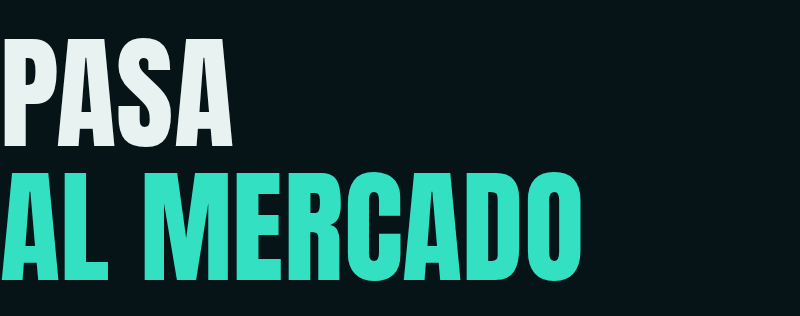
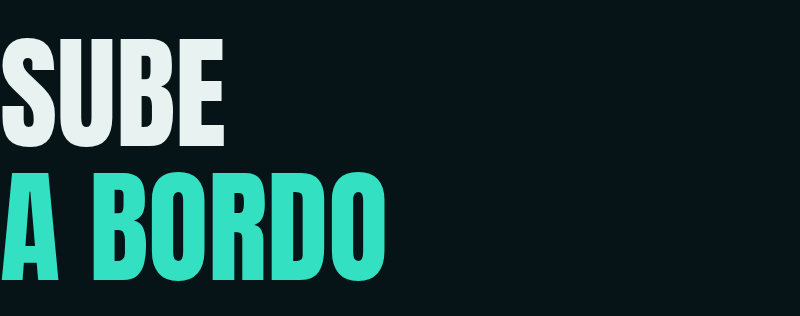
Renombrar El Mercado a la Tripulación
El directorio de asistentes pasa a llamarse «La Tripulación» y vive en
/tripulacion. /mercado redirige ahí, porque las invitaciones ya enviadas
llevan a esa dirección. Cambian la web, los correos, la tarjeta y el
título de la invitación («Sube a bordo»). En el código, las tablas y los
scripts sigue llamándose «mercado».

Changed region(s): [[0.0625, 0.5411, 0.75, 0.9114], [0.0, 0.1139, 0.3125, 0.4842]]

diff --git a/supabase/emails/invite.html b/supabase/emails/invite.html
@@ -1,4 +1,4 @@
-<!-- La manda scripts/mercado.mjs con Gmail, no Supabase. Asunto: "Te invitamos a pasar al Mercado de Atarazana" -->
+<!-- La manda scripts/mercado.mjs con Gmail, no Supabase. Asunto: "Te invitamos a la Tripulación de Atarazana" -->
 <!doctype html>
 <html lang="es">
 <head>
@@ -6,7 +6,7 @@
 <meta name="viewport" content="width=device-width, initial-scale=1">
 <meta name="color-scheme" content="dark">
 <meta name="supported-color-schemes" content="dark">
-<title>Pasa al Mercado</title>
+<title>Sube a bordo</title>
 </head>
 <body style="margin:0;padding:0;background:#061418" bgcolor="#061418">
 <div style="display:none;max-height:0;overflow:hidden;color:#061418">Te invitamos a pasar. Rellena tu perfil y verás a la gente con la que coincidiste.</div>
@@ -14,24 +14,24 @@
 <tr><td align="center" style="padding:24px 12px">
   <table role="presentation" width="100%" cellpadding="0" cellspacing="0" border="0" bgcolor="#061418" style="max-width:560px;background:#061418;border:1px solid #1e3a40">
     <tr><td bgcolor="#0a1d22" style="background:#0a1d22;border-bottom:1px solid #1e3a40;font-size:0;line-height:0">
-      <img src="cid:invitacion" width="560" alt="Invitación a El Mercado de Atarazana Founder House para {{ .Email }}. Acceso privado, en Málaga." style="display:block;border:0;width:100%;height:auto;color:#e8f3f1;font-family:Inter,Helvetica,Arial,sans-serif;font-size:14px;line-height:1.5">
+      <img src="cid:invitacion" width="560" alt="Invitación a La Tripulación de Atarazana Founder House para {{ .Email }}. Acceso privado, en Málaga." style="display:block;border:0;width:100%;height:auto;color:#e8f3f1;font-family:Inter,Helvetica,Arial,sans-serif;font-size:14px;line-height:1.5">
     </td></tr>
     <tr><td style="padding:36px 28px 0">
-      <img src="https://atarazana.house/assets/email/titulo-invitacion.png" width="400" alt="Pasa al Mercado" style="display:block;border:0;width:100%;max-width:400px;height:auto;color:#e8f3f1;font-family:Impact,'Arial Narrow',Arial,sans-serif;font-size:44px;line-height:1.05;text-transform:uppercase">
+      <img src="https://atarazana.house/assets/email/titulo-invitacion.png" width="400" alt="Sube a bordo" style="display:block;border:0;width:100%;max-width:400px;height:auto;color:#e8f3f1;font-family:Impact,'Arial Narrow',Arial,sans-serif;font-size:44px;line-height:1.05;text-transform:uppercase">
     </td></tr>
     <tr><td style="padding:24px 28px 0;color:#e8f3f1;font-family:Inter,Helvetica,Arial,sans-serif;font-size:17px;line-height:1.55">
       Viniste a una marea, así que te invitamos a pasar. Rellena tu perfil y verás a la gente con la que coincidiste.
     </td></tr>
     <tr><td style="padding:28px 28px 20px">
       <table role="presentation" width="100%" cellpadding="0" cellspacing="0" border="0"><tr>
-        <td bgcolor="#34e0c2" style="background:#34e0c2"><a href="{{ .ConfirmationURL }}" style="display:block;padding:18px 20px;color:#061418;font-family:'IBM Plex Mono',Menlo,Consolas,monospace;font-size:14px;font-weight:700;letter-spacing:.06em;text-transform:uppercase;text-decoration:none">Pasar al Mercado &rarr;</a></td>
+        <td bgcolor="#34e0c2" style="background:#34e0c2"><a href="{{ .ConfirmationURL }}" style="display:block;padding:18px 20px;color:#061418;font-family:'IBM Plex Mono',Menlo,Consolas,monospace;font-size:14px;font-weight:700;letter-spacing:.06em;text-transform:uppercase;text-decoration:none">Entrar en la Tripulación &rarr;</a></td>
       </tr></table>
     </td></tr>
     <tr><td style="padding:0 28px 32px;color:#e8f3f1;font-family:Inter,Helvetica,Arial,sans-serif;font-size:15px;line-height:1.55">
-      Este botón es personal y solo sirve una vez. Si ya lo usaste o han pasado 30 días, pide otro enlace en <a href="https://atarazana.house/mercado" style="color:#34e0c2">atarazana.house/mercado</a>.
+      Este botón es personal y solo sirve una vez. Si ya lo usaste o han pasado 30 días, pide otro enlace en <a href="https://atarazana.house/tripulacion" style="color:#34e0c2">atarazana.house/tripulacion</a>.
     </td></tr>
     <tr><td style="padding:20px 28px;border-top:1px solid #1e3a40;color:#8aa6aa;font-family:Inter,Helvetica,Arial,sans-serif;font-size:14px;line-height:1.55">
-      You came to a marea, so come on in. Fill in your profile to see the people you met there. This button is personal and works once. If you already used it or 30 days have passed, ask for a new link at <a href="https://atarazana.house/mercado" style="color:#34e0c2">atarazana.house/mercado</a>.
+      You came to a marea, so come on in. Fill in your profile to see the people you met there. This button is personal and works once. If you already used it or 30 days have passed, ask for a new link at <a href="https://atarazana.house/tripulacion" style="color:#34e0c2">atarazana.house/tripulacion</a>.
     </td></tr>
     <tr><td style="padding:20px 28px;border-top:1px solid #1e3a40;color:#8aa6aa;font-family:'IBM Plex Mono',Menlo,Consolas,monospace;font-size:12px;line-height:1.7">
       Hasta la próxima marea · Until the next marea

diff --git a/supabase/emails/magic-link.html b/supabase/emails/magic-link.html
@@ -1,4 +1,4 @@
-<!-- Supabase → Authentication → Emails → Templates → Magic Link. Asunto: "Tu enlace para entrar en El Mercado" -->
+<!-- Supabase → Authentication → Emails → Templates → Magic Link. Asunto: "Tu enlace para entrar en la Tripulación" -->
 <!doctype html>
 <html lang="es">
 <head>
@@ -20,15 +20,15 @@
       <img src="https://atarazana.house/assets/email/titulo-enlace.png" width="400" alt="Tu enlace para entrar" style="display:block;border:0;width:100%;max-width:400px;height:auto;color:#e8f3f1;font-family:Impact,'Arial Narrow',Arial,sans-serif;font-size:44px;line-height:1.05;text-transform:uppercase">
     </td></tr>
     <tr><td style="padding:24px 28px 0;color:#e8f3f1;font-family:Inter,Helvetica,Arial,sans-serif;font-size:17px;line-height:1.55">
-      Caduca en una hora y solo sirve una vez. Si te caduca, pide otro en <a href="https://atarazana.house/mercado" style="color:#34e0c2">atarazana.house/mercado</a>. Si no lo has pedido, ignora este correo.
+      Caduca en una hora y solo sirve una vez. Si te caduca, pide otro en <a href="https://atarazana.house/tripulacion" style="color:#34e0c2">atarazana.house/tripulacion</a>. Si no lo has pedido, ignora este correo.
     </td></tr>
     <tr><td style="padding:28px 28px 32px">
       <table role="presentation" width="100%" cellpadding="0" cellspacing="0" border="0"><tr>
-        <td bgcolor="#34e0c2" style="background:#34e0c2"><a href="{{ .ConfirmationURL }}" style="display:block;padding:18px 20px;color:#061418;font-family:'IBM Plex Mono',Menlo,Consolas,monospace;font-size:14px;font-weight:700;letter-spacing:.06em;text-transform:uppercase;text-decoration:none">Entrar en El Mercado &rarr;</a></td>
+        <td bgcolor="#34e0c2" style="background:#34e0c2"><a href="{{ .ConfirmationURL }}" style="display:block;padding:18px 20px;color:#061418;font-family:'IBM Plex Mono',Menlo,Consolas,monospace;font-size:14px;font-weight:700;letter-spacing:.06em;text-transform:uppercase;text-decoration:none">Entrar en la Tripulación &rarr;</a></td>
       </tr></table>
     </td></tr>
     <tr><td style="padding:20px 28px;border-top:1px solid #1e3a40;color:#8aa6aa;font-family:Inter,Helvetica,Arial,sans-serif;font-size:14px;line-height:1.55">
-      Your link to get in. It expires in an hour and works once. If it does, ask for a new one at <a href="https://atarazana.house/mercado" style="color:#34e0c2">atarazana.house/mercado</a>. If you did not ask for it, ignore this email.
+      Your link to get in. It expires in an hour and works once. If it does, ask for a new one at <a href="https://atarazana.house/tripulacion" style="color:#34e0c2">atarazana.house/tripulacion</a>. If you did not ask for it, ignore this email.
     </td></tr>
     <tr><td bgcolor="#0a1d22" style="background:#0a1d22;border-top:1px solid #1e3a40;font-size:0;line-height:0">
       <img src="https://atarazana.house/assets/email/laceria.png" width="560" alt="" style="display:block;border:0;width:100%;height:auto">

diff --git a/src/data/mercado.ts b/src/data/mercado.ts
@@ -1,17 +1,18 @@
 import type { Locale } from './pages';
 
-// El Mercado: la zona para volver a encontrar a la gente de tus mareas.
-// El nombre vive aquí. La ruta (/mercado) es el nombre de la carpeta en src/pages.
-export const mercadoName = 'El Mercado';
+// La Tripulación: la zona para volver a encontrar a la gente de tus mareas.
+// El nombre vive aquí. La ruta (/tripulacion) es el nombre de la carpeta en src/pages.
+// En el código, las tablas y los scripts se sigue llamando «mercado».
+export const mercadoName = 'La Tripulación';
 
 export function mercadoUrl(lang: Locale, view: 'index' | 'perfil' | 'persona' = 'index') {
-  const base = lang === 'en' ? '/en/mercado' : '/mercado';
+  const base = lang === 'en' ? '/en/tripulacion' : '/tripulacion';
   return view === 'index' ? base : `${base}/${view}`;
 }
 
 export const mercadoCopy = {
   es: {
-    off: `${mercadoName} todavía no está activo. Vuelve pronto.`,
+    off: `${mercadoName} todavía no está activa. Vuelve pronto.`,
     loading: 'Cargando…',
     // entrar
     loginKicker: 'Solo para quien ha venido a una marea',
@@ -59,7 +60,7 @@ export const mercadoCopy = {
     needName: 'Falta tu nombre.',
     needLink: 'Añade al menos un enlace para que te puedan contactar.',
     badLink: 'Este enlace no parece una dirección web.',
-    backToMercado: 'Volver al Mercado',
+    backToMercado: 'Volver a la Tripulación',
     photo: 'Foto',
     photoAdd: 'Subir foto',
     photoChange: 'Cambiar foto',
@@ -136,7 +137,7 @@ export const mercadoCopy = {
     needName: 'Your name is missing.',
     needLink: 'Add at least one link so people can reach you.',
     badLink: 'This link does not look like a web address.',
-    backToMercado: 'Back to El Mercado',
+    backToMercado: 'Back to La Tripulación',
     photo: 'Photo',
     photoAdd: 'Upload photo',
     photoChange: 'Change photo',

diff --git a/supabase/functions/mercado-invite/index.ts b/supabase/functions/mercado-invite/index.ts
@@ -1,6 +1,6 @@
-// Canjea el botón de la invitación de El Mercado. Supabase solo tiene una caducidad para todos sus enlaces (1 hora), así que
+// Canjea el botón de la invitación de la Tripulación. Supabase solo tiene una caducidad para todos sus enlaces (1 hora), así que
 // la invitación guarda su propio token (30 días, un solo uso) y el enlace de entrar se crea al canjearlo.
-// Lo llama la página /mercado con un POST desde el navegador: así un filtro de correo que solo abre el enlace no lo gasta.
+// Lo llama la página /tripulacion con un POST desde el navegador: así un filtro de correo que solo abre el enlace no lo gasta.
 import { createClient } from 'npm:@supabase/supabase-js@2';
 
 const site = Deno.env.get('MERCADO_SITE_URL') ?? 'https://atarazana.house';
@@ -29,6 +29,6 @@ Deno.serve(async (req) => {
   if (!invite) return reply({ url: null, email: null });
   if (new Date(invite.expires_at) < new Date()) return reply({ url: null, email: invite.email });
 
-  const { data, error } = await db.auth.admin.generateLink({ type: 'magiclink', email: invite.email, options: { redirectTo: `${site}/mercado` } });
+  const { data, error } = await db.auth.admin.generateLink({ type: 'magiclink', email: invite.email, options: { redirectTo: `${site}/tripulacion` } });
   return error ? reply({ url: null, email: invite.email }) : reply({ url: data.properties.action_link, email: invite.email });
 });

diff --git a/src/data/pages.ts b/src/data/pages.ts
@@ -31,7 +31,7 @@ export const pages = {
       "type": "website"
     },
     "mercado": {
-      "title": "El Mercado · Atarazana Founder House",
+      "title": "La Tripulación · Atarazana Founder House",
       "description": "Vuelve a encontrar a la gente con la que coincidiste en una marea de Atarazana Founder House.",
       "socialDescription": "Vuelve a encontrar a la gente con la que coincidiste en una marea.",
       "type": "website"
@@ -69,7 +69,7 @@ export const pages = {
       "type": "website"
     },
     "mercado": {
-      "title": "El Mercado · Atarazana Founder House",
+      "title": "La Tripulación · Atarazana Founder House",
       "description": "Find the people you met at an Atarazana Founder House marea again.",
       "socialDescription": "Find the people you met at a marea again.",
       "type": "website"
@@ -81,8 +81,8 @@ export type Page = keyof typeof pages.es;
 
 // Rutas que cambian de nombre según el idioma; el resto usa la clave de la página.
 const slugs: Record<Locale, Partial<Record<Page, string>>> = {
-  es: { faq: 'preguntas' },
-  en: {},
+  es: { faq: 'preguntas', mercado: 'tripulacion' },
+  en: { mercado: 'tripulacion' },
 };
 
 export function pageUrl(lang: Locale, page: Page) {

diff --git a/src/styles/global.css b/src/styles/global.css
@@ -918,7 +918,7 @@ main { counter-reset:chapter; }
 .hero-pass { border-color:color-mix(in srgb, var(--signal) calc(var(--bass, 0) * 100%), var(--structure)); }
 .sound-toggle.is-live .sound-bars i { animation:none; transition:height .06s linear; }
 
-/* ---------- El Mercado: directorio de la gente de tus mareas ---------- */
+/* ---------- La Tripulación: directorio de la gente de tus mareas ---------- */
 .mercado .wrap { padding-top:72px; padding-bottom:96px; min-height:60vh; }
 .mercado h1 { font-size:clamp(56px, 10vw, 140px); line-height:1.02; margin:0 0 28px; }
 .mercado .lead { font:700 clamp(18px, 2vw, 24px)/1.35 var(--font-body); letter-spacing:-0.02em; max-width:40ch; color:var(--white); }

diff --git a/src/lib/supabase.ts b/src/lib/supabase.ts
@@ -9,8 +9,8 @@ const isLocal = /^http:\/\/(127\.0\.0\.1|localhost)(:|\/|$)/.test(url ?? '');
 const allowed = import.meta.env.DEV === isLocal;
 if (url && !allowed) {
   console.warn(import.meta.env.DEV
-    ? `El Mercado: en local solo se usa el Supabase local, no ${url}. Revisa .env.development.local.`
-    : 'El Mercado: esta build apunta al Supabase local; no se conecta.');
+    ? `La Tripulación: en local solo se usa el Supabase local, no ${url}. Revisa .env.development.local.`
+    : 'La Tripulación: esta build apunta al Supabase local; no se conecta.');
 }
 
 let client: SupabaseClient | null = null;

diff --git a/src/scripts/mercado.ts b/src/scripts/mercado.ts
@@ -1,4 +1,4 @@
-// El Mercado en el navegador: entrar con enlace mágico, el directorio, tu perfil y la ficha de cada persona.
+// La Tripulación en el navegador: entrar con enlace mágico, el directorio, tu perfil y la ficha de cada persona.
 // Todo el texto que viene de la base de datos se pinta con textContent: nunca como HTML.
 import type { SupabaseClient } from '@supabase/supabase-js';
 import { supabase, PHOTO_BUCKET } from '../lib/supabase';

diff --git a/AGENTS.md b/AGENTS.md
@@ -52,7 +52,7 @@ Tenemos un vocabulario propio, sacado del astillero y de Málaga, para no sonar 
 | Manifiesto, capítulo 1 | **"Aquí ya se construía"** | La historia propia (astillero, siglo XIV) en lugar de la idea de "poner Málaga en el mapa" |
 | Manifiesto, "Por qué este nombre" | **dār aṣ-ṣināʿa** y **arsenal** | La etimología: "casa de la industria". *Arsenal* viene de la misma palabra |
 | Metadatos en mono | **s. XIV** | Junto a las coordenadas: footer y pie de la Puerta |
-| Directorio de asistentes (`/mercado`) | **El Mercado** (provisional, 31 de octubre de 2026) | El Mercado está detrás de la Puerta: ves caras conocidas, paras y hablas. El nombre está en `mercadoName` (`src/data/mercado.ts`); si cambia, se cambia ahí y se renombra la carpeta `src/pages/mercado` |
+| Directorio de asistentes (`/tripulacion`) | **La Tripulación** (3 de noviembre de 2026; antes, El Mercado) | La gente que ha subido al mismo barco. Se entiende mejor que "El Mercado". En inglés también se dice "La Tripulación". En mitad de frase, "la Tripulación" ("Volver a la Tripulación"). El nombre está en `mercadoName` (`src/data/mercado.ts`); si cambia, se cambia ahí, se renombran las carpetas `src/pages/tripulacion` y `src/pages/en/tripulacion`, se añade la redirección en `vercel.json` y se regenera `titulo-invitacion.png`. En el código, las tablas y los scripts sigue siendo "mercado" |
 | Visual | **Lacería** y **la Puerta** | Ver "Elementos secundarios" en la sección 3 |
 
 **Se mantiene como estaba:**
@@ -89,7 +89,7 @@ Tenemos un vocabulario propio, sacado del astillero y de Málaga, para no sonar 
 | Comunidad recurrente | **la cuadrilla** | Los equipos de astillero; en Andalucía la palabra sigue viva |
 | Contador de asistencias | **Llevas 3 mareas** | Cuántas veces has venido, sin rankings ni puntos |
 
-Cuadrilla y Mercado no compiten: la cuadrilla es la gente y el Mercado (ya en uso, ver arriba) es el sitio donde te la encuentras.
+La cuadrilla queda en reserva: la Tripulación (ya en uso, ver arriba) ocupa ese sitio.
 
 ### Lo que evitamos en el texto
 
@@ -228,7 +228,7 @@ Discreto y mecánico: flechas que se desplazan, subrayados que aparecen, cambios
 
 - **Astro 7**, sitio estático desplegado en Vercel (`vercel.json`). Node ≥ 22.12.
 - Comandos: `npm run dev`, `npm run build`, `npm run check`, `npm run check:functions` (la función de Supabase va aparte porque es Deno).
-- Tests de El Mercado: `npm test`, siempre contra Supabase local. Preparación y alcance en `tests/README.md`. `npm run verify` comprueba tipos, tests y build. Añade casos para fallos reales o reglas críticas; evita tests que solo repitan la implementación.
+- Tests de la Tripulación: `npm test`, siempre contra Supabase local. Preparación y alcance en `tests/README.md`. `npm run verify` comprueba tipos, tests y build. Añade casos para fallos reales o reglas críticas; evita tests que solo repitan la implementación.
 - **Antes de hacer commit:** el hook `.githooks/pre-commit` ejecuta `npm run verify` y bloquea el commit si falla cualquier comprobación. **El hook debe estar instalado en cada clon:** `npm install` / `npm ci` lo instalan mediante `prepare`; también se instala con `npm run hooks:install`. Comprueba que `git config --get core.hooksPath` devuelve `.githooks`. Supabase local y Chromium deben estar preparados según `tests/README.md`. Corrige los fallos antes de repetir el commit; no omitas el hook con `--no-verify` ni desactivándolo. GitHub Actions ejecuta la misma verificación en cada push y PR (`.github/workflows/verify.yml`).
 - Páginas en `src/pages/` (castellano en la raíz, inglés en `src/pages/en/`). **Cualquier cambio de copy se hace en los dos idiomas.**
 - Metadatos SEO y sociales por página e idioma en `src/data/pages.ts`. Allí también está `pageUrl` y el mapa de rutas que cambian según el idioma (la página `faq` es `/preguntas` en castellano y `/en/faq` en inglés).
@@ -236,7 +236,7 @@ Discreto y mecánico: flechas que se desplazan, subrayados que aparecen, cambios
 - **Menú** (`Header.astro`): Mareas · Manifiesto · Partners · Preguntas · Luma (perfil `luma.com/user/atarazana`) · EN/ES · botón "Pide paso". Se mantiene corto: antes de añadir algo, mira si puede ir en el footer.
 - **Enlaces a Luma:** "Pide paso", "Invitaciones abiertas" y el botón de cada marea próxima llevan al evento de esa marea (`luma` en `mareas.ts`). El perfil general solo va en el menú y en el catálogo vacío.
 - **Mareas** (`src/data/mareas.ts`): cada encuentro es una entrada (número, fecha, plazas, charlas, partners). De ahí salen la invitación del hero, el bloque de la próxima marea, el CTA final, el catálogo `/mareas` (`/en/mareas`) y la página de cada marea (`/mareas/001`). Para crear una marea nueva, se añade una entrada al principio del array. Con `draft: true` solo se ve en `npm run dev`; mientras no haya ninguna publicada, el catálogo no se genera ni sale en el menú ni en el footer. Si la marea ya ha pasado, se marca como pasada en el siguiente build: en ese momento se puede añadir `venue`, `doors` y una crónica en `body`. Cada ponente con cartel necesita también su retrato en `public/assets/speakers/thumbs/` (400×500, blanco y negro, recortado del cartel sin texto): sale en la fila del catálogo y en la banda de ponentes.
-- **El Mercado** (`/mercado`, `/en/mercado`): directorio privado de asistentes con login por enlace mágico, en Supabase. Solo pueden tener cuenta los correos de la lista de asistentes o de admins. Para ver a los demás hay que tener el perfil propio relleno y visible. Cada persona ve los perfiles de quien coincidió con ella en alguna marea, y el suyo el primero, marcado con «Tú»; quien no ha rellenado el suyo sale "de incógnita". Los admins lo ven todo y descargan CSV. **`atarazanafh@gmail.com` tiene que ser admin siempre**: lo pone `schema.sql` y no se quita. La invitación es de un clic: un token de un solo uso (30 días) que `/mercado` canjea en la función `supabase/functions/mercado-invite`; el enlace que se pide desde la web dura una hora. Las reglas de acceso viven en la base de datos (`supabase/schema.sql`), nunca solo en el navegador. **Producción se cuida:** en local todo va contra el Supabase local; los scripts solo tocan producción con `--prod` y confirmación (ver `supabase/README.md`). Cliente en `src/scripts/mercado.ts`, textos en `src/data/mercado.ts`, carga de asistentes desde el CSV de Luma con `scripts/mercado.mjs`. Puesta en marcha y uso en `supabase/README.md`. Las fotos van en color. El texto de la base de datos se pinta siempre con `textContent`, nunca como HTML.
+- **La Tripulación** (`/tripulacion`, `/en/tripulacion`; `/mercado` redirige ahí desde `vercel.json`, porque las primeras invitaciones llevan a `/mercado`): directorio privado de asistentes con login por enlace mágico, en Supabase. Solo pueden tener cuenta los correos de la lista de asistentes o de admins. Para ver a los demás hay que tener el perfil propio relleno y visible. Cada persona ve los perfiles de quien coincidió con ella en alguna marea, y el suyo el primero, marcado con «Tú»; quien no ha rellenado el suyo sale "de incógnita". Los admins lo ven todo y descargan CSV. **`atarazanafh@gmail.com` tiene que ser admin siempre**: lo pone `schema.sql` y no se quita. La invitación es de un clic: un token de un solo uso (30 días) que `/tripulacion` canjea en la función `supabase/functions/mercado-invite`; el enlace que se pide desde la web dura una hora. Las reglas de acceso viven en la base de datos (`supabase/schema.sql`), nunca solo en el navegador. **Producción se cuida:** en local todo va contra el Supabase local; los scripts solo tocan producción con `--prod` y confirmación (ver `supabase/README.md`). Cliente en `src/scripts/mercado.ts`, textos en `src/data/mercado.ts`, carga de asistentes desde el CSV de Luma con `scripts/mercado.mjs`. Puesta en marcha y uso en `supabase/README.md`. Las fotos van en color. El texto de la base de datos se pinta siempre con `textContent`, nunca como HTML.
 - **Acceso de agentes a producción** (Supabase y Vercel). Los valores están en `.env.prod`, que no se sube al repo; aquí solo va qué hay y cómo renovarlo:
   - Proyecto de Supabase: `qdjgqywjqwulzblafnof` (`https://qdjgqywjqwulzblafnof.supabase.co`).
   - `.env.prod` contiene `SUPABASE_URL`, `SUPABASE_SERVICE_ROLE_KEY` (la secret key, `sb_secret_…`), `SITE_URL`, `PUBLIC_SUPABASE_ANON_KEY` (la publishable, `sb_publishable_…`, no la usa el script), `SUPABASE_ACCESS_TOKEN` (`sbp_…`, token personal con caducidad) `GMAIL_APP_PASSWORD` (con ella `scripts/mercado.mjs` manda las invitaciones) y `SUPABASE_DB_URL` (conexión directa, para las copias de seguridad). Se leen sin imprimirlos, y nunca se piden ni se pegan en el chat.

diff --git a/supabase/README.md b/supabase/README.md
@@ -1,4 +1,6 @@
-# El Mercado · puesta en marcha
+# La Tripulación · puesta en marcha
+
+En el código, las tablas y los scripts se llama «mercado», su nombre anterior.
 
 Directorio privado de la gente que ha venido a las mareas. La web sigue siendo estática;
 el login (enlace mágico), los datos y las fotos van en [Supabase](https://supabase.com) (plan gratis).
@@ -10,15 +12,15 @@ el login (enlace mágico), los datos y las fotos van en [Supabase](https://supab
 3. **Authentication → Sign In / Providers**
    - Email: activado. **"Allow new users to sign up": desactivado** (solo entra quien invitamos).
 4. **Authentication → URL Configuration**
-   - Site URL: `https://atarazana.house/mercado`
-   - Redirect URLs: `https://atarazana.house/mercado`, `https://atarazana.house/en/mercado`
+   - Site URL: `https://atarazana.house/tripulacion`
+   - Redirect URLs: `https://atarazana.house/tripulacion`, `https://atarazana.house/en/tripulacion` (y las antiguas `/mercado` y `/en/mercado`, que redirigen ahí)
 5. **Correo con Gmail (obligatorio).** El correo de serie de Supabase solo manda a miembros del equipo y unos pocos por hora. Usamos la cuenta `atarazanafh@gmail.com` como servidor de correo (unos 500 correos al día, gratis).
    - En la cuenta de Google: activa la **verificación en dos pasos** (Seguridad) y crea una **contraseña de aplicación** en [myaccount.google.com/apppasswords](https://myaccount.google.com/apppasswords) con el nombre "Supabase". Son 16 letras: guárdalas, solo se ven una vez.
    - Supabase → **Authentication → Emails → SMTP Settings** → activar *Enable custom SMTP*:
      host `smtp.gmail.com`, puerto `465`, usuario `atarazanafh@gmail.com`, contraseña = la contraseña de aplicación (sin espacios), remitente `atarazanafh@gmail.com`, nombre `Atarazana Founder House`.
    - Supabase → **Authentication → Rate Limits**: deja "emails per hour" en 100. Cuenta los enlaces que pide la gente para entrar; las invitaciones las manda el script directamente con Gmail. No lo subas mucho más: Gmail corta hacia los 500 al día, y ese tope incluye las dos cosas.
    - Si algún día se quiere remitente `@atarazana.house`, se cambian estos campos por los de [Resend](https://resend.com) (host `smtp.resend.com`, usuario `resend`, contraseña = API key, tras verificar el dominio en DNS). No hay que tocar código.
-6. **Plantillas**: Authentication → Emails → Templates. Copia `emails/magic-link.html` en *Magic Link* (el asunto va en el comentario del archivo). `emails/invite.html` no se pega en Supabase: la manda `scripts/mercado.mjs` con Gmail, usando `GMAIL_APP_PASSWORD` de `.env.prod`. Así la cuenta nace confirmada y la invitación dura 30 días y sirve una vez: su botón lleva a `/mercado`, que la canjea en la función `mercado-invite` y deja a la persona dentro de un clic. Deja de valer al usarla o al rellenar el perfil. Si ya no vale, se pide un enlace en `/mercado`, y ese dura una hora (Authentication → Email OTP Expiration: 3600). Para publicar la función: `SUPABASE_ACCESS_TOKEN=… npx supabase functions deploy mercado-invite --project-ref qdjgqywjqwulzblafnof --no-verify-jwt --use-api`. Las imágenes de los correos están en `public/assets/email/`, así que tienen que estar publicadas antes de enviarlos. La tarjeta de la invitación se pinta para cada persona, con su correo (`scripts/mercado-card.mjs`). Necesita Chromium: `npx playwright install chromium-headless-shell`, una vez. Si cambia el nombre "El Mercado", hay que cambiarlo en esa tarjeta y regenerar `titulo-invitacion.png`.
+6. **Plantillas**: Authentication → Emails → Templates. Copia `emails/magic-link.html` en *Magic Link* (el asunto va en el comentario del archivo). `emails/invite.html` no se pega en Supabase: la manda `scripts/mercado.mjs` con Gmail, usando `GMAIL_APP_PASSWORD` de `.env.prod`. Así la cuenta nace confirmada y la invitación dura 30 días y sirve una vez: su botón lleva a `/tripulacion`, que la canjea en la función `mercado-invite` y deja a la persona dentro de un clic. Deja de valer al usarla o al rellenar el perfil. Si ya no vale, se pide un enlace en `/tripulacion`, y ese dura una hora (Authentication → Email OTP Expiration: 3600). Para publicar la función: `SUPABASE_ACCESS_TOKEN=… npx supabase functions deploy mercado-invite --project-ref qdjgqywjqwulzblafnof --no-verify-jwt --use-api`. Las imágenes de los correos están en `public/assets/email/`, así que tienen que estar publicadas antes de enviarlos. La tarjeta de la invitación se pinta para cada persona, con su correo (`scripts/mercado-card.mjs`). Necesita Chromium: `npx playwright install chromium-headless-shell`, una vez. Si cambia el nombre "La Tripulación", hay que cambiarlo en esa tarjeta y regenerar `titulo-invitacion.png` (hoy dice "Sube a bordo").
 7. **Claves** (Project Settings → API):
    - En **Vercel → Settings → Environment Variables**: `PUBLIC_SUPABASE_URL` y `PUBLIC_SUPABASE_ANON_KEY`. Redeploy.
    - En tu ordenador, copia `.env.prod.example` a `.env.prod` y rellénalo, incluida la `SUPABASE_SERVICE_ROLE_KEY`. **Esa clave salta todas las reglas: nunca en Vercel, nunca en el repo.**
@@ -27,7 +29,7 @@ el login (enlace mágico), los datos y las fotos van en [Supabase](https://supab
 
 ## Producción se cuida
 
-- `npm run dev` solo habla con el Supabase local (`.env.development.local`). Si ahí apareciera la URL de producción, El Mercado no se conecta y avisa en la consola. Y la web publicada nunca se conecta al local.
+- `npm run dev` solo habla con el Supabase local (`.env.development.local`). Si ahí apareciera la URL de producción, la Tripulación no se conecta y avisa en la consola. Y la web publicada nunca se conecta al local.
 - `scripts/mercado.mjs` trabaja en local por defecto. Producción solo con `--prod`, que lee `.env.prod` y pide escribir el nombre del proyecto antes de escribir nada. `--dry-run` no toca ninguna base de datos.
 - `scripts/mercado-demo.mjs` se niega a funcionar si no es contra localhost.
 - El esquema de producción se aplica a mano en el SQL Editor o, con `SUPABASE_ACCESS_TOKEN` en `.env.prod`, por la API de gestión (ver "Acceso de agentes" en `AGENTS.md`). No uses `supabase link` ni `supabase db push`.
@@ -45,7 +47,7 @@ Si un correo falla, el comando termina con error y la invitación queda pendient
 
 ## Copias de seguridad
 
-El plan gratuito de Supabase no hace copias. Las hace `.github/workflows/backup.yml`: cada lunes guarda las cuentas, las tablas de El Mercado y las fotos, y las conserva 90 días como artefacto de GitHub.
+El plan gratuito de Supabase no hace copias. Las hace `.github/workflows/backup.yml`: cada lunes guarda las cuentas, las tablas de la Tripulación y las fotos, y las conserva 90 días como artefacto de GitHub.
 
 **El repo es público, así que cualquiera con cuenta en GitHub puede descargar esos archivos.** Por eso van cifrados con [age](https://github.com/FiloSottile/age): GitHub solo tiene la clave pública, y descifrar requiere la privada, que está fuera de GitHub y del repo. **Si se pierde la clave privada, las copias no se pueden abrir.** Los registros solo muestran recuentos.
 

diff --git a/tests/README.md b/tests/README.md
@@ -1,9 +1,9 @@
-# Tests de El Mercado
+# Tests de la Tripulación
 
 Siete pruebas de comportamiento con el runner de Node, Supabase local y Chromium. Sin dependencias nuevas.
 
 ```sh
-npm test        # Mercado: unos 15 segundos con los servicios arrancados
+npm test        # Tripulación: unos 15 segundos con los servicios arrancados
 npm run verify # tipos de Astro y Deno, tests y build
 ```
 
